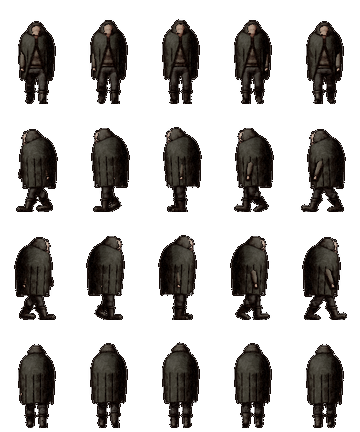
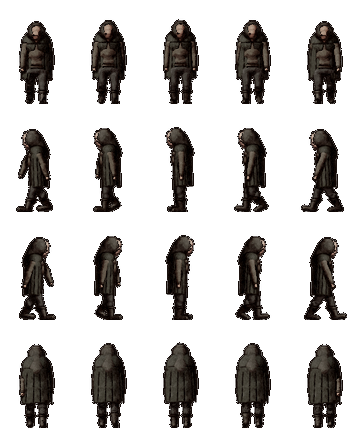
균열 탈출 포탈을 세로 차원문 그림으로(바닥마다 타일) · 약탈자 망토 몸에 붙게(RF21·EX14)
Claude-Session: https://claude.ai/code/session_012LdG8JyUMFwKDnqU5jz75N

diff --git a/docs/ASSUMPTIONS.md b/docs/ASSUMPTIONS.md
@@ -364,7 +364,7 @@
 | RF18 | **히든 피스 §6 적용**(사용자 2026-10-24 "뿔피리 제거, 2~4번은 남겨, M 빼고 히든 피스 진행"): ① **지휘관의 뿔피리 삭제** — 핏빛성채 1챕터 출구는 조우만 치우면 열린다(데드맨 지휘관 드롭 없음). 계층군주 뼈 대검·계층석·계층정수·균열석·1층 물건 반출은 그대로. ② 히든 피스 14개(A·I·B·J·D·C·K·N·L·G·H·O·Q·R — M 제외): 강철의 묘 성유(함정 무발동 → 민첩 +1)·강철 사리(회전 칼날을 부숴 지남 → 물리내성 +1)·데스마스크(수수께끼 정답 → 60,000)·황금 부장품(보물 더미 셋 중 진짜 하나, 벽화를 다 읽었으면 먼저 들여다봄, 가짜 = 묘의 저주 6시간 받는 피해 +10% → 40,000) · 핏빛성채 핏빛 우물(생명력 최대치 30%를 붓는다 → 피의 성배 생명력 최대치 +5)·무기고 열쇠(4챕터 고문대)→2챕터 잠긴 수레(되돌아가기 → 50,000) · 빙하굴 설련화(3챕터 위험을 모두 한 번에 → 자연재생력 +2)·만년빙 결정(수호자 뒤 고드름 → 40,000) · 녹색 탄광 녹색 결정(광차 밀기 근력 판정 dc 14 한 번 → 근력 +1)·녹색 광맥(무너진 다리를 건너뛰어 성공 → 30,000)·폭약 둘(남는 하나는 전투에서 슬라임 120 화염 + 분열 막음) · 1층 어둠 속 수정(서쪽 팔 끝 31,360 — 횃불을 끈 채 → 시각 +5)·공물의 답례(수정 버섯 3 → 24시간 뒤 영혼 재생력 +2) · 도서관 고서 해독(네크로노미콘을 쓰고 어둠 내성 +3 + 언데드 조사 기록 — 판정 없이, 대가는 160,000을 포기하는 것). 스탯 영약은 모두 그 균열 밖으로 못 가져간다(`rift_bound` — 그 자리에서 쓴다), 돈벌이 유물은 가져간다. ③ 강철의 묘 2챕터 회전 칼날만 부숨 기준 물리내성 30 → 22(1층 탐험가가 닿을 수 있게) | 원작 규칙(RF17) 안에서 찾는 법만 다양하게 | 기획 `docs/plans/rift_hidden_pieces.md` §6, 조건 키 = REFERENCE '히든 피스 조건', 수치 = 아이템·균열 JSON(`source: placeholder`) |
 | RF19 | **균열 장식을 뒤져 잡템**(사용자 요청 2026-10-24 "균열 장식 타일에서 F로 상호작용하면 썩은 고기·오래된 은화 같은 잡템 — 쓸 수 없지만 쏠쏠하게 모으는 돈벌이"): 장식 타일 `scavenge`: 표 id → 바로 옆(4방향)에서 살피면 표(`data/scavenge.json`)에서 무게대로 하나, `empty_chance`면 빈손("건질 것이 없다"). 한 칸은 이번 균열에서 한 번(`ExploreSession.scavenged` — 챕터를 되돌아가도 그대로, 다음 균열은 새로 — RF17① 달마다 초기화와 맞음). 가방이 차면 뒤지지 않은 채 남는다. 잡템 12종(category misc, 쓰는 효과 없음, 값 40~600): 핏빛성채 썩은 고기·오래된 은화·녹슨 군장 버클(통·상자·자루·수레·좌판·천막·진열대·갑옷 받침대·책장·침상·탁자·말뚝 시체) / 빙하굴 꽁꽁 언 고기·얼음 수정 부스러기·서리 낀 뼈 장신구(천막·썰매·상자·모닥불·얼음 속 오크·눈 더미·얼음 결정) / 녹색 탄광 구리 광석 조각·녹슨 곡괭이 날·형광 이끼 덩이(통·상자·공구대·작업대·광석 더미·오두막·천막·버섯) / 강철의 묘 낡은 수의 조각·깨진 항아리 조각·오래된 금화(항아리·석관·갑옷·무너진 석재). 그 균열 세계의 물건이다(다른 모험가의 흔적이 아니다 — RF17①). **RF17③(미궁 물건은 못 가지고 나감)의 예외**: 사용자가 '모아서 파는 돈벌이'를 요청 — 잡템은 `rift_bound`가 없어 균열·미궁을 나가도 남고 상점에 판다 | 기댓값(값 기준, 빈손 포함): 핏빛성채 약 22,000 · 강철의 묘 약 20,000 · 녹색 탄광 약 10,500 · 빙하굴 약 3,000(장식이 적다) — 가방 칸이 실제 상한 | 표·값 = `data/scavenge.json`·아이템 JSON, 뒤질 장식 = 타일 `scavenge`(검증기 `ScavengeRules` — interact와 함께 두지 않는다). 너무 많으면 `empty_chance`를 올린다 |
 | RF20 | **여러 무리 조우(chain) = 따로 돌아다니는 무리들**(사용자 2026-10-26 "균열에서 그 큰 맵에 몬스터 한 마리랑 마주치는데 줄줄이 꼬치마냥 계속 나온다 — 무리별로 몬스터가 돌아다니게 다 갈라 줘"): 연전(이기면 쉬지 않고 다음 구성과 싸움 — RF7)을 없애고, 구성마다 따로 맵에 세워 각자 배회한다. 보스가 낀 구성(빙하굴 2장 카툼바)은 조우 자리(방), 나머지는 그 둘레 `rift.chain_spread_tiles` 22칸 안에 서로 `chain_gap_tiles` 7칸 넘게. 출구는 모든 무리를 정리해야 열린다(전처럼). 데이터 키 `kind: "chain"`·`battles`는 그대로(뜻만 "여러 무리"). 무리 `waves`(연전) 처리 코드는 남아 있지만 지금 쓰는 조우는 없다 | 사용자 요청 | `RiftRun._place_packs`, balance `rift.chain_*` |
-| RF21 | **균열 조우는 건너뛸 수 있다 · 탈출 포탈은 수호자 자리에**(사용자 2026-10-26 "균열 몬스터를 전부 잡지 않아도 다음 스테이지로 넘어가게, 몬스터 전부 처치하면 나오는 메시지도 지우고, 균열 수호자를 처치하면 그 자리에 원래대로 돌아가는 포탈"): 길목은 조우가 남아도 열린다(폭약 같은 `exit_requires`는 그대로). 남긴 무리는 그 챕터에 그대로 남는다(되돌아가도). "구역을 정리했다/수호자가 쓰러졌다" 문구(`explore.rift_exit_open`·`rift_exit_escape`)와 막힘 문구(`rift_exit_locked`) 삭제. 마지막 챕터는 설계도 출구를 치우고(바닥으로), 수호자가 쓰러지면(동반이 남은 채 도망쳐도) 그 칸에 탈출 포탈(`rift_exit` 타일 + 길목 빛) — 그 칸이 막혔으면 둘레 2칸 안. 포탈 그림은 아직 임시(흰 마름모 — 다음 할 일 7) | 사용자 요청 | `RiftRun._can_leave`·`_open_escape`, `RiftPassage.setup`(last) |
+| RF21 | **균열 조우는 건너뛸 수 있다 · 탈출 포탈은 수호자 자리에**(사용자 2026-10-26 "균열 몬스터를 전부 잡지 않아도 다음 스테이지로 넘어가게, 몬스터 전부 처치하면 나오는 메시지도 지우고, 균열 수호자를 처치하면 그 자리에 원래대로 돌아가는 포탈"): 길목은 조우가 남아도 열린다(폭약 같은 `exit_requires`는 그대로). 남긴 무리는 그 챕터에 그대로 남는다(되돌아가도). "구역을 정리했다/수호자가 쓰러졌다" 문구(`explore.rift_exit_open`·`rift_exit_escape`)와 막힘 문구(`rift_exit_locked`) 삭제. 마지막 챕터는 설계도 출구를 치우고(바닥으로), 수호자가 쓰러지면(동반이 남은 채 도망쳐도) 그 칸에 탈출 포탈(`rift_exit` 타일 + 길목 빛) — 그 칸이 막혔으면 둘레 2칸 안. 포탈 그림 = 세로로 선 차원문(사용자 "세로로 된 차원문, 차원광장 포탈 느낌" — 돌 고리 + 보랏빛 소용돌이 + 바닥 빛, `tools/floor_art/Props.gd` rift_gate → `assets/floor/f1/props.webp` 22번 칸), 타일은 바닥마다 `rift_gate_<바닥 id>`(그 칸 바닥 그림을 그대로 — 없으면 균열 look.tiles.exit) | 사용자 요청 | `RiftRun._can_leave`·`_open_escape`, `RiftPassage.setup`(last), tiles.json `rift_gate_*` |
 
 ## 계층군주 드레드피어 G3 (2026-10-12, docs/PROMPT_FLOOR1_V2.md §7)
 
@@ -601,7 +601,7 @@
 | EX11 | 정수 확률(C): 등급별 9등급 2% → **4.5%**(+0.5%p씩, 1등급 8.5%), 균열 배율 `rift_mult` 4 → 2.2(균열 안 확률은 전과 비슷하게 — E는 이번에 하지 않음) | 1층 원정 한 번(20~40마리)에 정수 1~2개 | `balance.essence` |
 | EX12 | 도시(C): 하급 포션 20,000 → 3,000 · 중급 50,000 → 8,000 스톤(횃불 10,000은 원작 값이라 그대로). **탐험가 길드에 기능 두 가지** — 신원패 반납(한 장 600 — 상점 판매 500보다 조금 낫게), 조사 기록 넘기기(아직 넘기지 않은 도감 기록 — 조사한 생명력·스탯 150, 알아낸 상성 하나 80 × (10 − 등급)). 길드는 이제 기능 있는 시설이라 들어가면 행동력 1(CT39의 "기능 없음 — 행동력 0"을 대신한다) | 루팅·조사의 보상을 도시로 잇는다(정보의 가치). 길드 정보 구매·동료 고용은 여전히 명세 대기 | `data/activities/guild_tags.json`·`guild_records.json`, 아이템 price |
 | EX13 | **한 번의 전투 = 처음엔 한 마리**(사용자 결정 2026-10-22 "몬스터 숫자를 늘리되 한 번의 전투에서 만나는 몬스터는 줄여 — 한 마리랑만, 후반 일차가 돼야 2~3마리"): 층 필드 무리의 마릿수 = `spawn.pack_by_day`[날짜] [최소, 최대] — 1~3일 차 1, 4~5일 차 1~2, 6~7일 차 2~3(몬스터 `pack_size` 최대를 넘지 않음 — 칼날늑대·노움·구울은 최대 2), 소굴을 지키는 무리도 같다(`FieldMonsters.pack_count`). 대신 무리 수 지역당 30~38 → **48~56**. 걷기 측정(시드 1~3 × 포탈 4): 1일 차 전투 84 → 97번(모두 한 마리), 6일 차 111번. 계층군주·균열 조우·약탈자는 그대로 | 첫 30분에 한 마리씩 익히고 날이 갈수록 무리가 커진다 | 층 JSON `spawn.pack_by_day`·`groups_per_region` |
-| EX14 | **약탈자 생김새**(사용자 2026-10-26 "바바리안 약탈자는 게임에서 없애 주고 · 전투 그림은 뼈다귀 같으니 살 좀 · 탐험 화면은 전투 화면처럼 두건·망토"): 1층 약탈자는 인간만(`explorers.raider_looks` ["human"] — 신참·탐험가 `looks`는 그대로 바바리안도), 맵에서는 플레이어와 같은 시트에 색만 입히던 것을 전용 두건·망토 걷기 시트로(`render.json view.raider_sprite` — `MapLooks.r0_raider`: 쓴 두건·짧은 망토·긴 소매 윗옷·어두운 바지, 그늘진 얼굴). 전투 그림 칼잡이·궁수는 마른 몸(thin) → 보통 몸·굵기 1.35/1.3·넓은 어깨·긴 윗옷, 두목도 굵기 1.3 | 사용자 요청 | 맵 시트 `paint_actors.gd -- --only=human`(KEEP으로 같이), 전투 그림 `tools/monster_art/Specs2.gd` → `paint_monsters.gd -- --only=raider_cutthroat,raider_archer,raider_chief` |
+| EX14 | **약탈자 생김새**(사용자 2026-10-26 "바바리안 약탈자는 게임에서 없애 주고 · 전투 그림은 뼈다귀 같으니 살 좀 · 탐험 화면은 전투 화면처럼 두건·망토"): 1층 약탈자는 인간만(`explorers.raider_looks` ["human"] — 신참·탐험가 `looks`는 그대로 바바리안도), 맵에서는 플레이어와 같은 시트에 색만 입히던 것을 전용 두건·망토 걷기 시트로(`render.json view.raider_sprite` — `MapLooks.r0_raider`: 쓴 두건·짧은 망토·긴 소매 윗옷·어두운 바지, 그늘진 얼굴 — 망토는 "너무 볼록하게 두껍다"(사용자 2026-10-26)로 `cloak.fit`: 단면이 몸처럼 납작한 타원(폭 = 위팔 바깥, 깊이 = 등 두께)이라 옆에서 봐도 어깨선을 따라 얇게 곧게 떨어진다, `BackCloak._echain`). 전투 그림 칼잡이·궁수는 마른 몸(thin) → 보통 몸·굵기 1.35/1.3·넓은 어깨·긴 윗옷, 두목도 굵기 1.3 | 사용자 요청 | 맵 시트 `paint_actors.gd -- --only=human`(KEEP으로 같이), 전투 그림 `tools/monster_art/Specs2.gd` → `paint_monsters.gd -- --only=raider_cutthroat,raider_archer,raider_chief` |
 | EX15 | **1층 다른 탐험가 줄이기**(사용자 2026-10-26 "약탈자 두목은 게임에서 제거 · 일반 탐험가가 돌아다니는 것도 제거 · 탐험가 시체도 지금에서 1/3로" → "원래 시체는 남기고 동굴 요소 배치도 원래대로, 새로 생기는 탐험가 시체만 1/3"): 약탈자 두목 몬스터를 지움(데이터·그림·설계 — `explorers.raider_chief`는 있을 때만 붙는 칸으로, 1층엔 없음). 돌아다니는 신참 무리 `rookies_by_day` [0](신참 거래·소문·따라가기 규칙은 남아 있고 시험은 직접 세워서 한다) — 다친 탐험가·싸우는 탐험가 사건도 없앰(사용자 "다친 탐험가랑 싸우는 탐험가도 없애" — `wounded_per_hour`·`fight_per_hour` 0, 규칙 코드는 남김). 1층의 다른 사람은 약탈자뿐. 지도에 놓인 탐험가 시체 28곳·동굴 요소 배치는 그대로, 원정 중 새로 생기는 시체만 1/3(`unseen_corpse_per_hour` 0.08 → 0.027 — 신참 무리가 없어 신참 죽음 시체도 없다) | 사용자 요청 | 층 JSON `explorers` |
 
 ## 아이템 공식 — 종류 × 소재 등급 (2026-10-23, 사용자 "아이템 종류와 소재 등급으로 스탯, 종류마다 특색, 높은 소재일수록 증가율만 커지게 … 오케이 집어넣어")

diff --git a/docs/archive/PROGRESS_LOG.md b/docs/archive/PROGRESS_LOG.md
@@ -6,6 +6,13 @@
 
 ## 작업 기록 (2026-10-20 이후 — 위가 최신)
 
+- **균열 탈출 포탈 = 세로 차원문 · 약탈자 망토 얇게 (2026-10-26, 사용자 "포탈 다시 그릴 필요가 있을 듯. 세로로 되어 있는 차원문으로. 차원광장 포탈 느낌으로. 그리고 탐험 화면 약탈자 걷는 모습 다시 그려. 망토가 너무 볼록하게 두껍게 튀어나와 있음. 그대로 몸 어깨라인을 따라 얇게 쭉 떨어지게")** — RF21·EX14.
+  - 포탈: `tools/floor_art/Props.gd` 소품 rift_gate(`_gate` — 받침 돌 둘 위에 선 돌 고리 18덩이, 안쪽 두 갈래 소용돌이 보랏빛·가운데 밝음·안쪽 테 빛, 바닥 빛) → `paint_floor.gd -- --only=props`(props.webp 23칸 — 시체 소품도 지금 몸 그림으로 다시). 타일 `rift_gate_<바닥 id>`(그 바닥 아틀라스 + 소품 22번, size 2.2, 보랏빛 빛): fortress_floor·ice_floor·mine_floor·metal_floor(균열 look.tiles.exit 기본) + 수호자 방 바닥 bf_bloodcrack·gc_gravel·gm_rubble. `_open_escape`가 그 칸 바닥 id로 고르고 없으면 look.tiles.exit. 시험 test_rift_passage: 수호자 자리 바닥마다 rift_gate 타일이 있다·쓰러진 뒤 타일 = rift_gate_<그 바닥>.
+  - 겪은 것: 처음 균열마다 한 장(기본 바닥)으로 했더니 빙하굴 수호자 자리(자갈 바닥)에서 네모난 얼음 바닥이 따라 나와 바닥별로.
+  - 약탈자 망토: 둥근 캡슐 원뿔(폭 = 깊이)이라 옆모습에서 등이 혹처럼 부풀었다 → `BackCloak._echain`(단면이 타원인 캡슐 — 몸 좌표 폭·깊이를 돌린 각도로 화면 폭·앞뒤 솟음에 섞음) + `cloak.fit`(폭 = 어깨 + 0.06 — 위팔까지 덮음, 깊이 = 등 두께 + 0.03, flare 1.05, 앞 트임 0.9). r0_raider 시트 다시.
+  - 캡처: 녹색 탄광·강철의 묘·빙하굴·핏빛성채 마지막 챕터 `--near=guardian --slay`, 1층 약탈자 `--parties`. check.sh 통과(테스트 438).
+  - 남은 것: 차원문은 서 있는 소품인데 바닥 소품 층(DecorChunk)에 그려져 캐릭터가 뒤에 서도 앞에 보인다(키 큰 소품 y 정렬 — 다음 할 일 7).
+
 - **균열 조우 건너뛰기 · 수호자 자리에 탈출 포탈 (2026-10-26, 사용자 "균열 몬스터를 전부 잡지 않아도 다음 스테이지로 넘어가게 해 줘. 몬스터 전부 처치하면 나오는 메시지도 지우고. 균열 수호자를 처치하면 그 자리에 원래대로 돌아가는 포탈 생성되게 하고")** — RF21.
   - `RiftRun._can_leave`: 남은 조우 검사·막힘 문구 삭제(마지막 챕터는 수호자 전엔 조용히 false — 출구가 없다), `exit_requires`(녹색 탄광 폭약)는 그대로. 남긴 무리는 `_kept`에 챕터별로 남아 되돌아가도 그대로(전엔 늘 비어 있어서 쓸 일이 없던 길).
   - 정리 문구 `explore.rift_exit_open`·`rift_exit_escape`·`rift_exit_locked` 삭제(ko.json·RiftRun·DebugPanel).

diff --git a/docs/PROGRESS.md b/docs/PROGRESS.md
@@ -27,7 +27,7 @@
 4a. **성능**: 균열 입장 약 0.5초(한 번), 1층 매 프레임 몬스터·시간 갱신 약 5ms.
 5. **낡은 데이터 키**: `render.json combat_card_*`(카드 UI 없음), 층 JSON `resets_each_entry`(읽지 않음).
 6. **감사에서 남긴 것**: 도발을 위협 수치로(AU4), 정수판 덫의 맵 설치, 칼날늑대 냄새 표시, 같은 상태를 여러 출처가 걸 때 출처별 관리(X15).
-7. **탐험 맵 그림 다듬기**: 물가·시야 끝 칸 모양, 동·서 벽면, 키 큰 소품 y 정렬, 1층 동굴 요소 그림(바닥색 + 마름모), 균열 탈출 포탈(`rift_exit`).
+7. **탐험 맵 그림 다듬기**: 물가·시야 끝 칸 모양, 동·서 벽면, 키 큰 소품 y 정렬, 1층 동굴 요소 그림(바닥색 + 마름모), 서 있는 소품(균열 차원문 등)이 캐릭터 아래에 그려지는 것(y 정렬).
 8. **전투 뒷그림 다듬기**(선택): 계층군주전 전용 그림, 탄광 2장 무너진 틈이 낮은 눈높이 때문에 얇게 보인다, 장면별 `half_width`를 실제 전투로 맞춰 보기.
 9. **몬스터 그림 ↔ 데이터 대조**(`tools/monster_art/Specs*.gd` vs `desc_ko`·무기·스킬).
 
@@ -46,6 +46,7 @@
 
 ## 3. 최근 작업 (위가 최신 — 자세한 것은 PROGRESS_LOG에서 제목으로 검색)
 
+- 2026-10-26 **균열 탈출 포탈 = 세로 차원문 그림 · 약탈자 망토 얇게**(RF21·EX14): 돌 고리 + 보랏빛 소용돌이(바닥마다 `rift_gate_<바닥>` 타일), 약탈자 망토는 몸에 붙는 타원 단면(`cloak.fit`).
 - 2026-10-26 **균열 조우 건너뛰기 · 수호자 자리에 탈출 포탈**(RF21): 길목은 늘 열림, 정리 문구 삭제, 마지막 챕터 출구는 수호자가 쓰러진 칸에 생긴다.
 - 2026-10-26 **무리를 마리마다 그림 · 균열 연전을 따로 다니는 무리로**(UI30·RF20): 맵에 ×N 없이 무리 전원이 줄지어 걷고, 균열 chain 조우(빙하굴 2장 10무리 등)는 구성마다 따로 배회.
 - 2026-10-26 **1층 다른 탐험가 줄이기**(EX15): 약탈자 두목 삭제, 신참·다친·싸우는 탐험가 없음(다른 사람은 약탈자뿐), 새로 생기는 탐험가 시체 1/3(지도 시체·동굴 요소는 그대로).

diff --git a/docs/PLAYTEST.md b/docs/PLAYTEST.md
@@ -11,7 +11,8 @@
 | 1 | 균열 1챕터에서 몬스터를 피해 길목으로 걸어간다 | 바로 다음 챕터로 넘어간다(막힘 문구 없음) |
 | 2 | 다음 챕터에서 뒤 길목으로 돌아온다 | 남겨 둔 몬스터 무리가 그대로 있다 |
 | 3 | 무리를 다 잡는다 | "구역을 정리했다" 같은 문구가 뜨지 않는다 |
-| 4 | 마지막 챕터 | 처음엔 출구가 없다 — 수호자를 쓰러뜨리면 그 자리에 빛나는 탈출 포탈이 생기고, 살피면 1층 원래 자리로 |
+| 4 | 마지막 챕터 | 처음엔 출구가 없다 — 수호자를 쓰러뜨리면 그 자리에 돌 고리 안 보랏빛 소용돌이 차원문(세로로 선)이 생기고, 바닥은 둘레와 같은 그림, 살피면 1층 원래 자리로 |
+| 5 | 1층 약탈자 무리를 옆에서 본다 | 망토가 어깨선을 따라 얇게 곧게 떨어진다(등이 볼록하지 않다) |
 
 ### 무리를 마리마다 · 균열 무리 따로 (2026-10-26)
 
